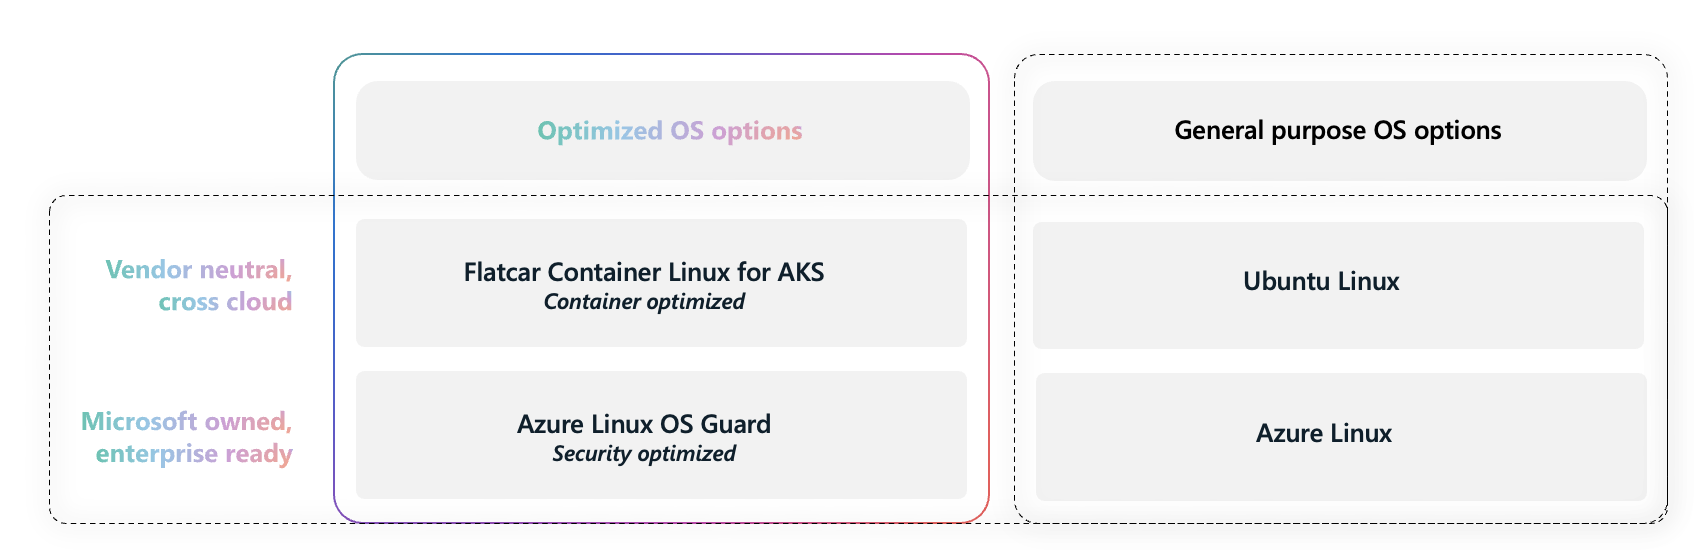
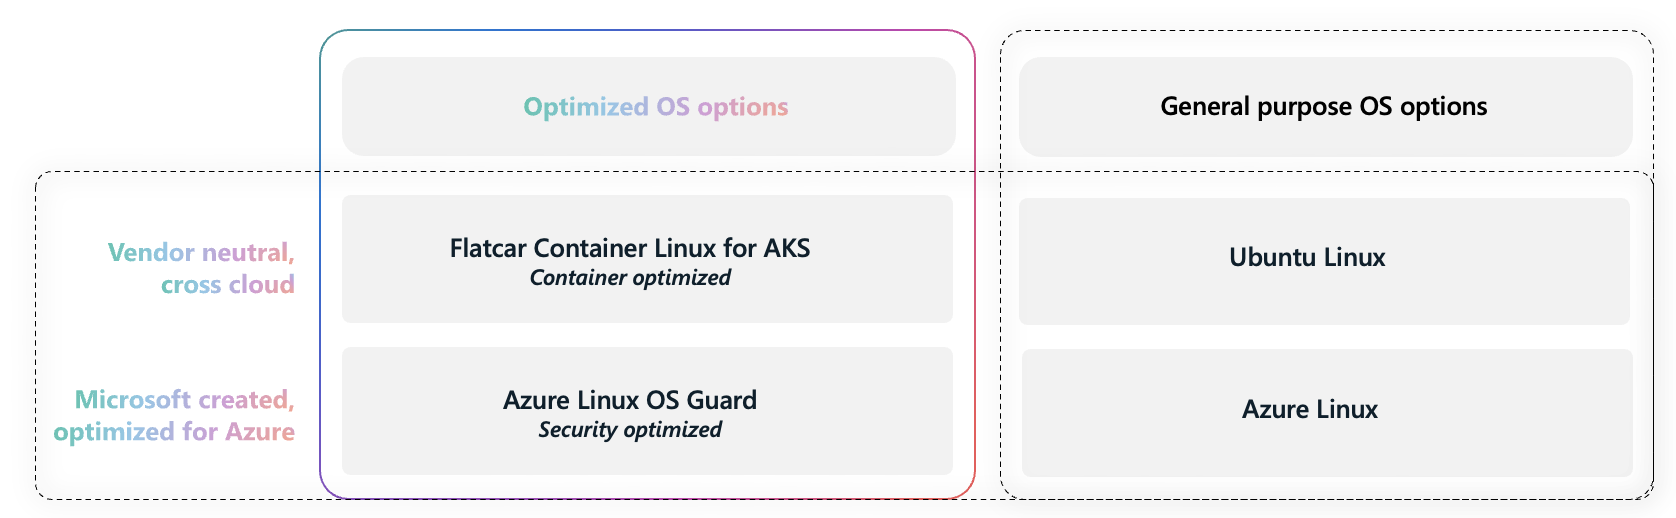
Update blog post to clarify OS options and improve accuracy of recommendations

diff --git a/website/blog/2025-11-10-recommendations-for-container-optimized-os-options-on-aks/index.md b/website/blog/2025-11-10-recommendations-for-container-optimized-os-options-on-aks/index.md
@@ -20,18 +20,18 @@ Selecting an operating system for your Kubernetes deployments may appear straigh
 
 When choosing a Linux OS for your Kubernetes deployments, consider your organization's priorities and workload requirements. AKS defaults to Ubuntu Linux because it is a widely adopted, general-purpose, and vendor-neutral option. However, alternative OS options are available to better address specific needs such as enhanced security, immutability, or enterprise support.
 
-AKS has just released support for two new optimized Linux OS options. [Azure Linux OS Guard (preview)](https://aka.ms/aks/azure-linux-os-guard) is designed and integrated by Microsoft, built on top of enterprise-ready Azure Linux with specialized configuration to support containerized workloads with security optimizations. [Flatcar Container Linux for AKS (preview)](https://aka.ms/aks/flatcar) is a CNCF-based vendor-neutral container-optimized immutable OS, best suited for running on multi-cloud and on-prem environments.
+AKS has just released support for two new optimized Linux OS options. [Azure Linux OS Guard (preview)](https://aka.ms/aks/azure-linux-os-guard) is Microsoft-created and optimized for Azure. OS Guard is built on top of Azure Linux with specialized configuration to support containerized workloads with security optimizations. [Flatcar Container Linux for AKS (preview)](https://aka.ms/aks/flatcar) is a CNCF-based vendor-neutral container-optimized immutable OS, best suited for running on multi-cloud and on-prem environments.
 
-You may be asking yourself, why did AKS choose to support two optimized OS options? As contributors to both projects, we've seen the distinct customer requirements for both scenarios. When customers are running containerized workloads in multiple clouds and want a consistent experience as critical OS component updates are released, they use Ubuntu or Flatcar Container Linux. When security conscious enterprise customers run mostly on Azure and want a consistent support experience where they benefit from Microsoft ownership, they use Azure Linux or OS Guard. Both of these scenarios are valid, distinct, and Microsoft supported.
+You may be asking yourself, why did AKS choose to support two optimized OS options? As contributors to both projects, we've seen the distinct customer requirements for both scenarios. When customers are running containerized workloads in multiple clouds and want a consistent experience as critical OS component updates are released, they use Ubuntu or Flatcar Container Linux. When security conscious enterprise customers run mostly on Azure and want a consistent support experience, they use Azure Linux or OS Guard. Both of these scenarios are valid, distinct, and Microsoft supported.
 
 ### Recommendations for Linux OS on AKS
 
 When deciding between which Linux OS options to use, AKS recommends the following:
 
 - Use [**Flatcar Container Linux for AKS (preview)**](https://aka.ms/aks/flatcar) if you're looking for a vendor neutral, community stewarded immutable OS with cross-cloud support.
-- Use [**Azure Linux OS Guard (preview)**](https://aka.ms/aks/azure-linux-os-guard) if you're looking for an enterprise-ready immutable OS, recommended by Microsoft.
+- Use [**Azure Linux OS Guard (preview)**](https://aka.ms/aks/azure-linux-os-guard) if you're looking for an immutable OS that is Microsoft-created and optimized for Azure.
 - Use [Ubuntu](https://aka.ms/aks/supported-ubuntu-versions) if you're looking for a vendor neutral, general purpose OS with cross-cloud support.
-- Use [Azure Linux](https://aka.ms/aks/use-azure-linux) if you're looking for an enterprise-ready, general purpose OS, recommended by Microsoft.
+- Use [Azure Linux](https://aka.ms/aks/use-azure-linux) if you're looking for a general purpose OS that is Microsoft-created and optimized for Azure.
 
 ![OS Recommendations on AKS](./os-comparison.png)
 
